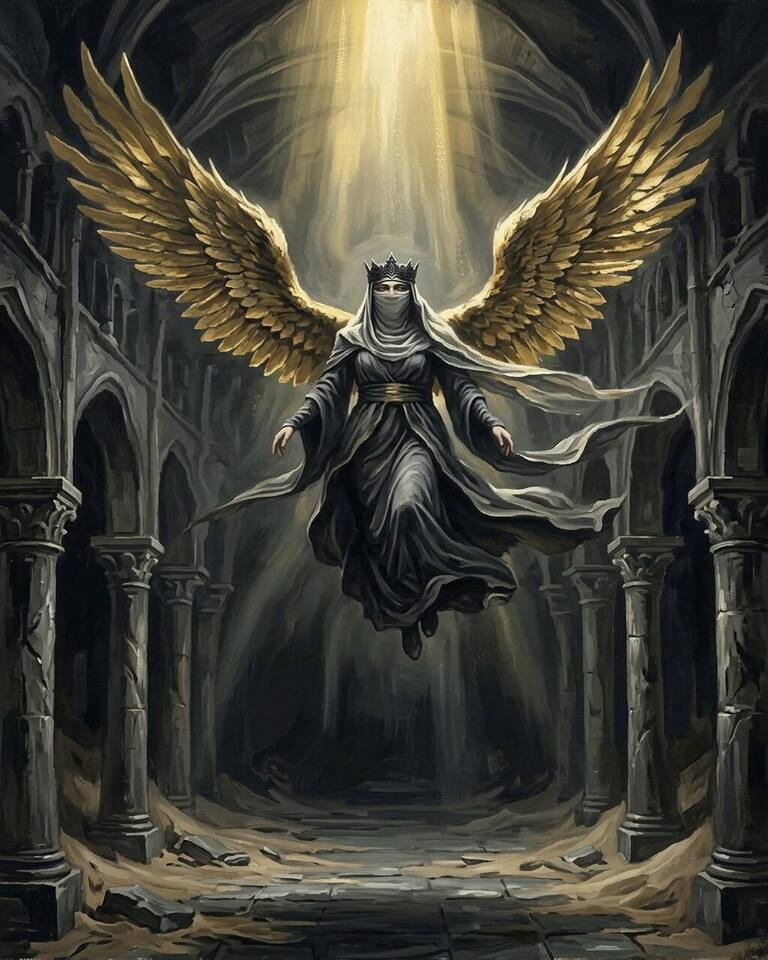
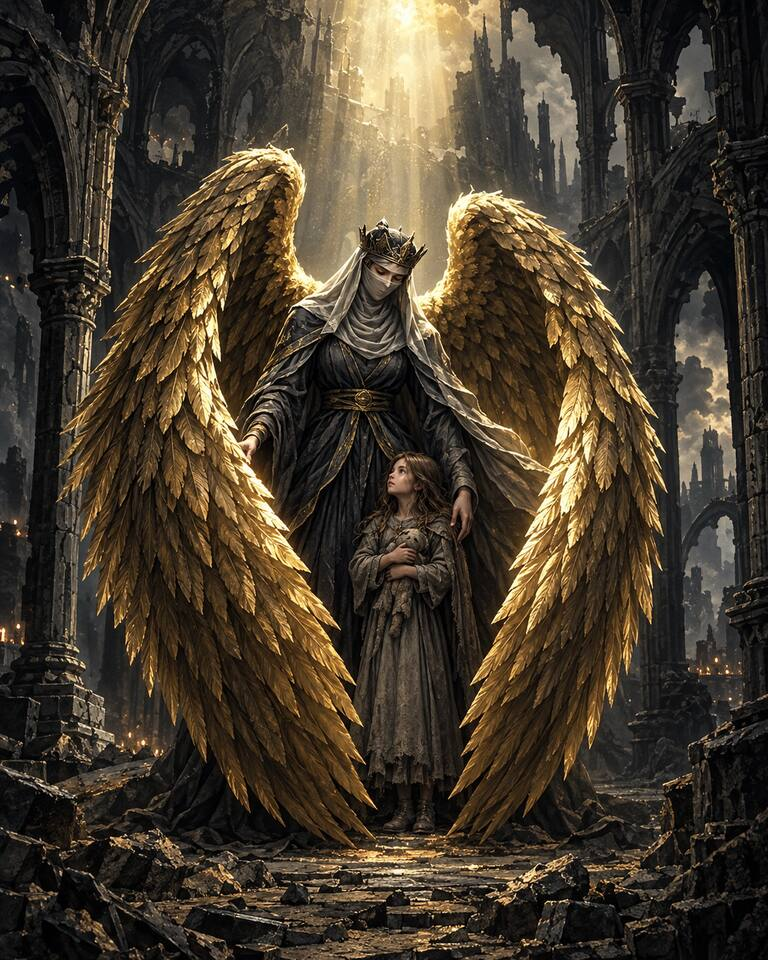
Illustrer la protection de la Dame aux ailes d’or

diff --git a/src/games/rpgCardArt.js b/src/games/rpgCardArt.js
@@ -222,8 +222,8 @@ const CARD_ART_CACHE_VERSIONS = {
   'baton-des-citernes': 'armurerie-sangles-v2',
   'djinn-de-foudre': 'sable-souls-desore-v3',
   'sonneur-fele': 'plein-art-cloche-v1',
-  // La Dame aux ailes d'or s'envole dans la nef en ruine : révision dédiée.
-  'dame-aux-ailes-d-or': 'dame-ailes-or-vol-v1',
+  // La Dame protège une enfant sous ses ailes dorées.
+  'dame-aux-ailes-d-or': 'dame-ailes-or-protection-v1',
   'lionne-du-midi-ardent': 'braise-souls-cendres-v4',
   'brisure-de-verre': 'plein-art-verre-v2',
   'silence-decume': 'plein-art-bulle-v1',
